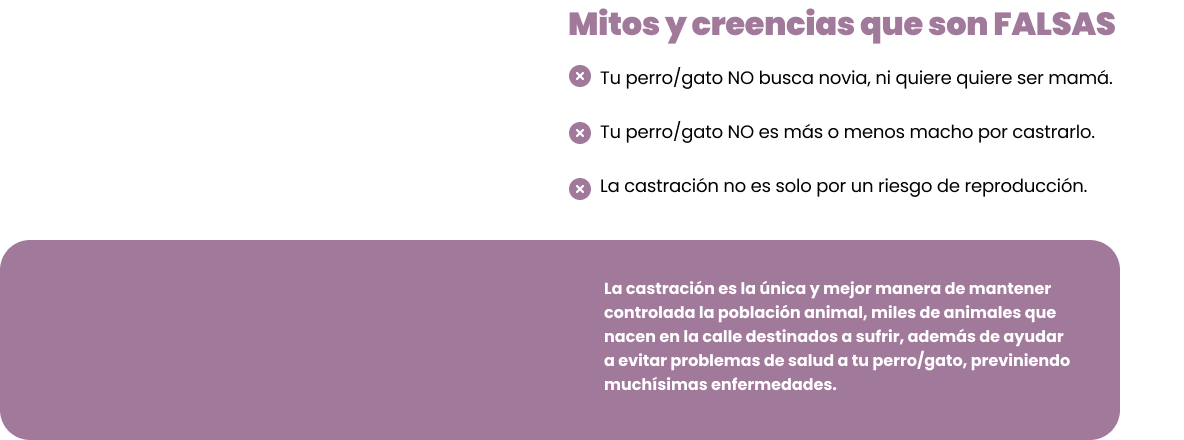
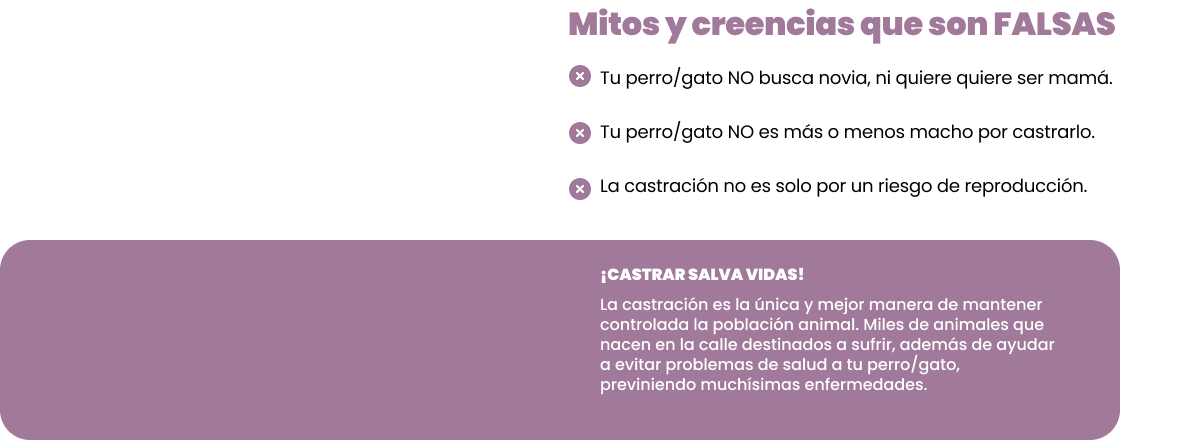
cambios textos

Changed region(s): [[0.5, 0.5909, 0.9062, 0.8864]]

diff --git a/pages/vacunas.htm b/pages/vacunas.htm
@@ -114,9 +114,9 @@
                        <p class="parrafo">
                         Estas son las Vacunas Básicas que tu PERRO necesita para estar protegido
                        </p> 
-                        <li class="quintuple"><img src="../multimedia/img/infoUtil/vaccine.png" class="vaccine"  alt="logovacuna">Quintuple</li>
-                        <li class="sextuple"><img src="../multimedia/img/infoUtil/vaccine.png" class="vaccine" alt="logovacuna">Sextuple</li>
-                        <li class="refuerzo"><img src="../multimedia/img/infoUtil/vaccine.png" class="vaccine" alt="logovacuna">Refuerzo  de  la  Sextuple</li>
+                        <li class="quintuple"><img src="../multimedia/img/infoUtil/vaccine.png" class="vaccine"  alt="logovacuna">Quintuple.</li>
+                        <li class="sextuple"><img src="../multimedia/img/infoUtil/vaccine.png" class="vaccine" alt="logovacuna">Sextuple.</li>
+                        <li class="refuerzo"><img src="../multimedia/img/infoUtil/vaccine.png" class="vaccine" alt="logovacuna">Refuerzo  de  la  Sextuple.</li>
                         <li class="antirrabica"><img src="../multimedia/img/infoUtil/vaccine.png" class="vaccine" alt="logovacuna">Antirrabica en el caso  de los cachorros y el  refuerzo de la Sextuple y la Antirrábica en el caso de perros adultos.</li>
                     </ul>
                 </div>
@@ -128,8 +128,8 @@
                         <p class="rectangulo3parrafo">
                             Estas son las Vacunas Básicas que tu GATO necesita para estar protegido
                         </p>
-                        <li class="triple"><img src="../multimedia/img/infoUtil/vaccine.png" class="vaccine" alt="logovacuna">Triples Felinas</li>
-                        <li class="leucemia"><img src="../multimedia/img/infoUtil/vaccine.png" class="vaccine" alt="logovacuna">Leucemia Viral</li>
+                        <li class="triple"><img src="../multimedia/img/infoUtil/vaccine.png" class="vaccine" alt="logovacuna">Triples Felinas.</li>
+                        <li class="leucemia"><img src="../multimedia/img/infoUtil/vaccine.png" class="vaccine" alt="logovacuna">Leucemia Viral.</li>
                         <li class="antirrabica"><img src="../multimedia/img/infoUtil/vaccine.png" class="vaccine" alt="logovacuna">Antirrabica.</li>
                     </ul>
                 </div>

diff --git a/pages/castrar.html b/pages/castrar.html
@@ -100,7 +100,7 @@
             <img src="../multimedia/img/infoUtil/IconMitos.png" alt="icono" class="iconmitos3"><p class="parraf__mitos__3"> La castración no es solo por un riesgo de reproducción. </p>
             <!-- rectangulo -->
             <div class="rectangulo">
-                <p class="parrafo__rectangulo">LA CASTRACIÓN ES LA ÚNICA Y MEJOR MANERA DE MANTENER CONTROLADA LA POBLACIÓN ANIMAL, MILES DE ANIMALES QUE NACEN EN LA CALLE DESTINADOS A SUFRIR, ADEMÁS DE AYUDAR A EVITAR PROBLEMAS DE SALUD A TU perro/gato, PREVINIENDO MUCHÍSIMAS ENFERMEDADES.</p>
+                <p class="parrafo__rectangulo">LA CASTRACIÓN ES LA ÚNICA Y MEJOR MANERA DE MANTENER CONTROLADA LA POBLACIÓN ANIMAL. MILES DE ANIMALES QUE NACEN EN LA CALLE DESTINADOS A SUFRIR, ADEMÁS DE AYUDAR A EVITAR PROBLEMAS DE SALUD A TU perro/gato, PREVINIENDO MUCHÍSIMAS ENFERMEDADES.</p>
             </div>
             <!-- ventajas de esterilizacion -->
             <h2 class="titulo__ventajas">Ventajas de la esterilización</h2>
@@ -134,7 +134,7 @@
                 <p class="gatoyperros"><strong>GATOS</strong></p>
                 <p class="parraf__cuando__hacerlo">
                 Hembras a partir de los 6 meses de edad.<br>
-                Machos a partir de los 8 meses de edad
+                Machos a partir de los 8 meses de edad.
                 </p>
                 <p class="gatoyperros"><strong>PERROS</strong></p>
                 <p class="parraf__cuando__hacerlo">

diff --git a/index.html b/index.html
@@ -107,7 +107,7 @@
                     <br><br>
                     <p>
                         Zaguates nació en el 2014 de la mano de Dolores y Macarena. Su pasión por los animales las llevó a unirse con el fin de luchar contra el maltrato y abandono animal. En el 2017 formaron la Asociación Civil que continúa creciendo al día de hoy. <br><br>
-                        Actualmente somos un grupo de 15 voluntarias, nuestro principal objetivo es luchar contra el abandono, el maltrato y el sufrimiento animal, generando conciencia y promoviendo la tenencia responsable. <br><br>
+                        Actualmente somos un grupo de más de 15 voluntarias. Nuestro principal objetivo es luchar contra el abandono, el maltrato y el sufrimiento animal, generando conciencia y promoviendo la tenencia responsable. <br><br>
                         ¡Hacemos todo a pulmón! El camino es muy difícil pero estamos convencidas de que hacemos lo correcto. ¡Vale la pena, vale la vida! <strong>ZAGUATES SOMOS TODOS.</strong>
                     </p>
                 </div>

diff --git a/pages/rescatar.html b/pages/rescatar.html
@@ -108,7 +108,7 @@
                 <div class="texto__3">
                     <img src="../multimedia/img/infoUtil/patitasRescatarMobile.png"  alt="patitas" class="patitasIcon3">
                     <p class="parrafo3">
-                        De no encontrar a su familia, se lo pasa a considerar "abandonado" y se lo difunde nuevamente pero en busqueda de una nueva familia RESPONSABLE, publicado con lindas fotos y la mayor información que tengan al momento (edad, sexo y datos de contacto que no falten).
+                        De no encontrar a su familia, se lo pasa a considerar "abandonado" y se lo difunde nuevamente pero en búsqueda de una nueva familia RESPONSABLE, publicado con lindas fotos y la mayor información que tengan al momento (edad, sexo y datos de contacto que no falten).
                     </p>
                 </div>
                 <div class="dotted3"></div>
